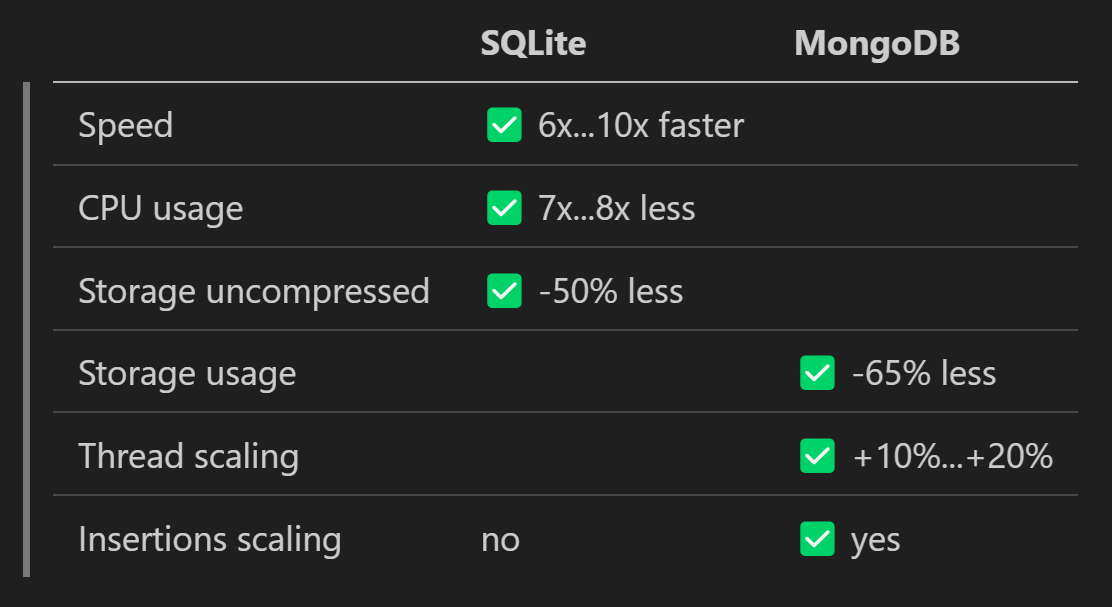
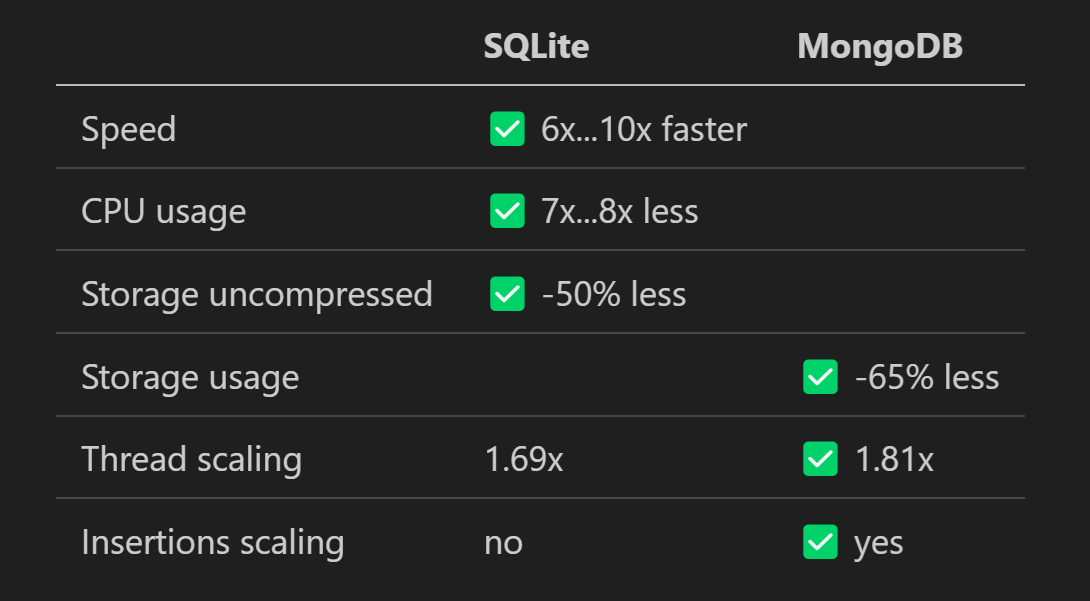
Updating table. Adding hardware info

diff --git a/README.MD b/README.MD
@@ -25,6 +25,17 @@ TEST CONDITIONS
 * SQLite journal mode: WAL
 * MongoDB compression: zstd
 
+HARDWARE
+* Orange Pi Zero 2W
+  * 4 ARM cores
+  * 4 GB memory
+  * 256 GB SD card, Blitzwolf
+* Ryzen 5800X3D desktop computer
+  * 8 cores
+  * 16 threads
+  * 64 GB memory
+  * 1 TB NVMe SSD, Western Digital
+
 TEST RESULTS
 * Ryzen 5800X3D desktop computer with 8 cores and 16 threads
 	* SQLite
@@ -91,10 +102,10 @@ Data structure used for test:
 	type User struct {
 		name         string
 		passwordHash string
+		accessToken  string
 		email        string
 		createdAt    dateTime
 		level        int
-		accessToken  string
 	}
 
 THREAD SCALING
